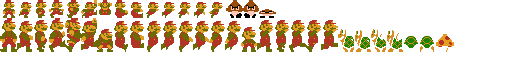
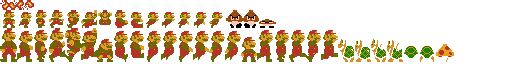
Implemented fireballs

diff --git a/core/src/com/mygdx/mariobros/Sprites/Fireball.java b/core/src/com/mygdx/mariobros/Sprites/Fireball.java
@@ -1,0 +1,83 @@
+package com.mygdx.mariobros.Sprites;
+
+import com.badlogic.gdx.graphics.g2d.Animation;
+import com.badlogic.gdx.graphics.g2d.Sprite;
+import com.badlogic.gdx.graphics.g2d.TextureRegion;
+import com.badlogic.gdx.math.Vector2;
+import com.badlogic.gdx.physics.box2d.*;
+import com.badlogic.gdx.utils.Array;
+import com.mygdx.mariobros.MarioBrosGame;
+import com.mygdx.mariobros.Screens.PlayScreen;
+
+public class Fireball extends Sprite {
+    PlayScreen screen;
+    World world;
+    Array<TextureRegion> frames;
+    Animation<TextureRegion> fireAnimation;
+    float stateTime;
+    boolean destroyed;
+    boolean setToDestroy;
+    boolean fireRight;
+
+    Body b2body;
+
+    public Fireball(PlayScreen screen, float x, float y, boolean fireRight){
+        this.fireRight = fireRight;
+        this.screen = screen;
+        this.world = screen.getWorld();
+        frames = new Array<TextureRegion>();
+        for (int i = 0; i < 4; i++) {
+            frames.add(new TextureRegion(screen.getAtlas().findRegion("fireball"), i * 8, 0, 8, 8));
+        }
+        fireAnimation = new Animation(0.2f, frames);
+        setRegion(fireAnimation.getKeyFrame(0));
+        setBounds(x, y, 6 / MarioBrosGame.PPM, 6 / MarioBrosGame.PPM);
+        defineFireball();
+    }
+
+    public void defineFireball(){
+        BodyDef bdef = new BodyDef();
+        bdef.position.set(fireRight ? getX() + 12 / MarioBrosGame.PPM : getX() - 12 / MarioBrosGame.PPM, getY());
+        bdef.type = BodyDef.BodyType.DynamicBody;
+        if (!world.isLocked())
+            b2body = world.createBody(bdef);
+
+        FixtureDef fdef = new FixtureDef();
+        CircleShape shape = new CircleShape();
+        shape.setRadius(3 / MarioBrosGame.PPM);
+        fdef.filter.categoryBits = MarioBrosGame.FIREBALL_BIT;
+        fdef.filter.maskBits = MarioBrosGame.GROUND_BIT |
+                MarioBrosGame.COIN_BIT |
+                MarioBrosGame.BRICK_BIT |
+                MarioBrosGame.ENEMY_BIT |
+                MarioBrosGame.OBJECT_BIT;
+
+        fdef.shape = shape;
+        fdef.restitution = 1;
+        fdef.friction = 0;
+        b2body.createFixture(fdef).setUserData(this);
+        b2body.setLinearVelocity(new Vector2(fireRight ? 2 : -2, 2.5f));
+    }
+
+    public void update(float dt){
+        stateTime += dt;
+        setRegion(fireAnimation.getKeyFrame(stateTime, true));
+        setPosition(b2body.getPosition().x - getWidth() / 2, b2body.getPosition().y - getHeight() / 2);
+        if ((stateTime > 3 || setToDestroy) && !destroyed){
+            world.destroyBody(b2body);
+            destroyed = true;
+        }
+        if (b2body.getLinearVelocity().y > 2f)
+            b2body.setLinearVelocity(b2body.getLinearVelocity().x, 2f);
+        if ((fireRight && b2body.getLinearVelocity().x < 0) || (!fireRight && b2body.getLinearVelocity().x > 0))
+            setToDestroy();
+    }
+
+    public void setToDestroy(){
+        setToDestroy = true;
+    }
+
+    public boolean isDestroyed(){
+        return destroyed;
+    }
+}

diff --git a/core/src/com/mygdx/mariobros/Sprites/Mario.java b/core/src/com/mygdx/mariobros/Sprites/Mario.java
@@ -3,6 +3,7 @@ package com.mygdx.mariobros.Sprites;
 import com.badlogic.gdx.audio.Music;
 import com.badlogic.gdx.audio.Sound;
 import com.badlogic.gdx.graphics.g2d.Animation;
+import com.badlogic.gdx.graphics.g2d.Batch;
 import com.badlogic.gdx.graphics.g2d.Sprite;
 import com.badlogic.gdx.graphics.g2d.TextureRegion;
 import com.badlogic.gdx.math.Vector2;
@@ -40,6 +41,8 @@ public class Mario extends Sprite {
     private boolean marioIsDead;
 
     private PlayScreen screen;
+
+    private Array<Fireball> fireballs;
 
     public Mario(PlayScreen screen) {
         this.screen = screen;
@@ -88,6 +91,8 @@ public class Mario extends Sprite {
 
         setBounds(0, 0, 16 / MarioBrosGame.PPM, 16 / MarioBrosGame.PPM);
         setRegion(marioStand);
+
+        fireballs = new Array<Fireball>();
     }
 
     public void update(float dt) {
@@ -100,6 +105,12 @@ public class Mario extends Sprite {
             defineBigMario();
         if (timeToRedefineBigMario)
             redefineMario();
+
+        for(Fireball fireball : fireballs){
+            fireball.update(dt);
+            if (fireball.isDestroyed())
+                fireballs.removeValue(fireball, true);
+        }
     }
 
     public TextureRegion getFrame(float dt) {
@@ -284,6 +295,16 @@ public class Mario extends Sprite {
                 fixture.setFilterData(filter);
             b2body.applyLinearImpulse(new Vector2(0, 4f), b2body.getWorldCenter(), true);
         }
+    }
+
+    public void fire(){
+        fireballs.add(new Fireball(screen, b2body.getPosition().x, b2body.getPosition().y, runningRight ? true : false));
+    }
+
+    public void draw(Batch batch){
+        super.draw(batch);
+        for(Fireball fireball : fireballs)
+            fireball.draw(batch);
     }
 
     public boolean isBig(){

diff --git a/core/src/com/mygdx/mariobros/Tools/WorldContactListener.java b/core/src/com/mygdx/mariobros/Tools/WorldContactListener.java
@@ -4,6 +4,7 @@ import com.badlogic.gdx.Gdx;
 import com.badlogic.gdx.physics.box2d.*;
 import com.mygdx.mariobros.MarioBrosGame;
 import com.mygdx.mariobros.Sprites.Enemies.Enemy;
+import com.mygdx.mariobros.Sprites.Fireball;
 import com.mygdx.mariobros.Sprites.Items.Item;
 import com.mygdx.mariobros.Sprites.Mario;
 import com.mygdx.mariobros.Sprites.TileObjects.InteractiveTileObject;
@@ -59,6 +60,12 @@ public class WorldContactListener implements ContactListener {
                     ((Item) fixA.getUserData()).use((Mario) fixB.getUserData());
                 else
                     ((Item) fixB.getUserData()).use((Mario) fixA.getUserData());
+                break;
+            case MarioBrosGame.FIREBALL_BIT | MarioBrosGame.OBJECT_BIT:
+                if (fixA.getFilterData().categoryBits == MarioBrosGame.FIREBALL_BIT)
+                    ((Fireball) fixA.getUserData()).setToDestroy();
+                else
+                    ((Fireball) fixB.getUserData()).setToDestroy();
                 break;
         }
     }

diff --git a/core/src/com/mygdx/mariobros/Screens/PlayScreen.java b/core/src/com/mygdx/mariobros/Screens/PlayScreen.java
@@ -18,6 +18,7 @@ import com.badlogic.gdx.utils.viewport.Viewport;
 import com.mygdx.mariobros.MarioBrosGame;
 import com.mygdx.mariobros.Scenes.HUD;
 import com.mygdx.mariobros.Sprites.Enemies.Enemy;
+import com.mygdx.mariobros.Sprites.Fireball;
 import com.mygdx.mariobros.Sprites.Items.Item;
 import com.mygdx.mariobros.Sprites.Items.ItemDef;
 import com.mygdx.mariobros.Sprites.Items.Mushroom;
@@ -103,6 +104,8 @@ public class PlayScreen implements Screen {
                 player.b2body.applyLinearImpulse(new Vector2(0.1f, 0), player.b2body.getWorldCenter(), true);
             if (Gdx.input.isKeyPressed(Input.Keys.A) && player.b2body.getLinearVelocity().x >= -2)
                 player.b2body.applyLinearImpulse(new Vector2(-0.1f, 0), player.b2body.getWorldCenter(), true);
+            if (Gdx.input.isKeyJustPressed(Input.Keys.SPACE))
+                player.fire();
         }
     }
 

diff --git a/core/src/com/mygdx/mariobros/MarioBrosGame.java b/core/src/com/mygdx/mariobros/MarioBrosGame.java
@@ -23,6 +23,7 @@ public class MarioBrosGame extends Game {
 	public static final short ENEMY_HEAD_BIT = 128;
 	public static final short ITEM_BIT = 256;
 	public static final short MARIO_HEAD_BIT = 512;
+	public static final short FIREBALL_BIT = 1024;
 
 	public SpriteBatch batch;
 
